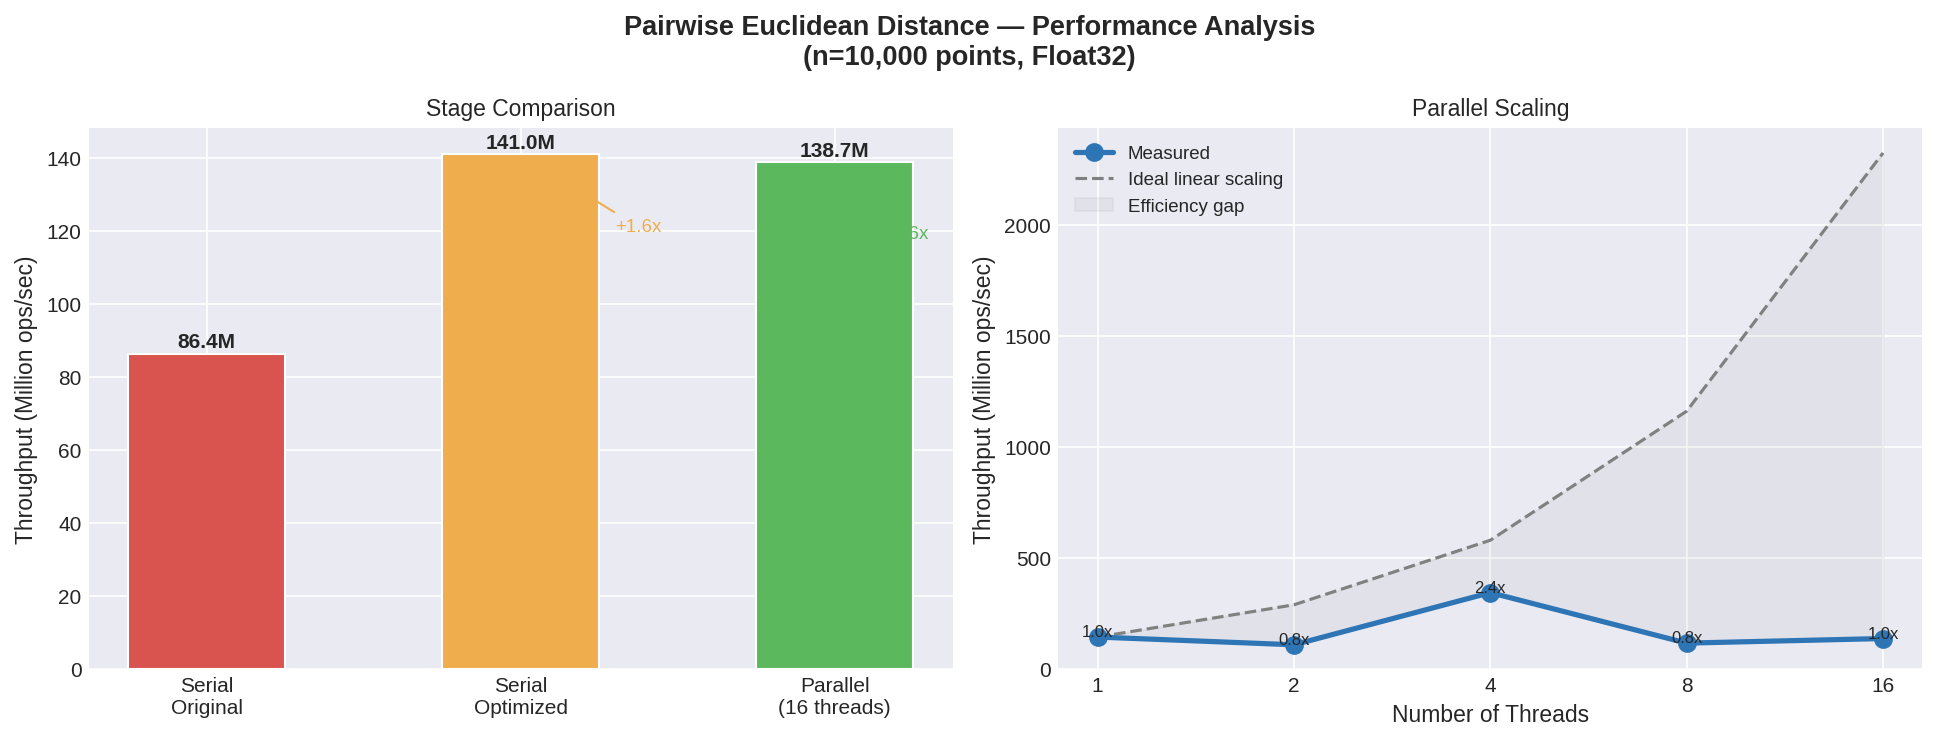
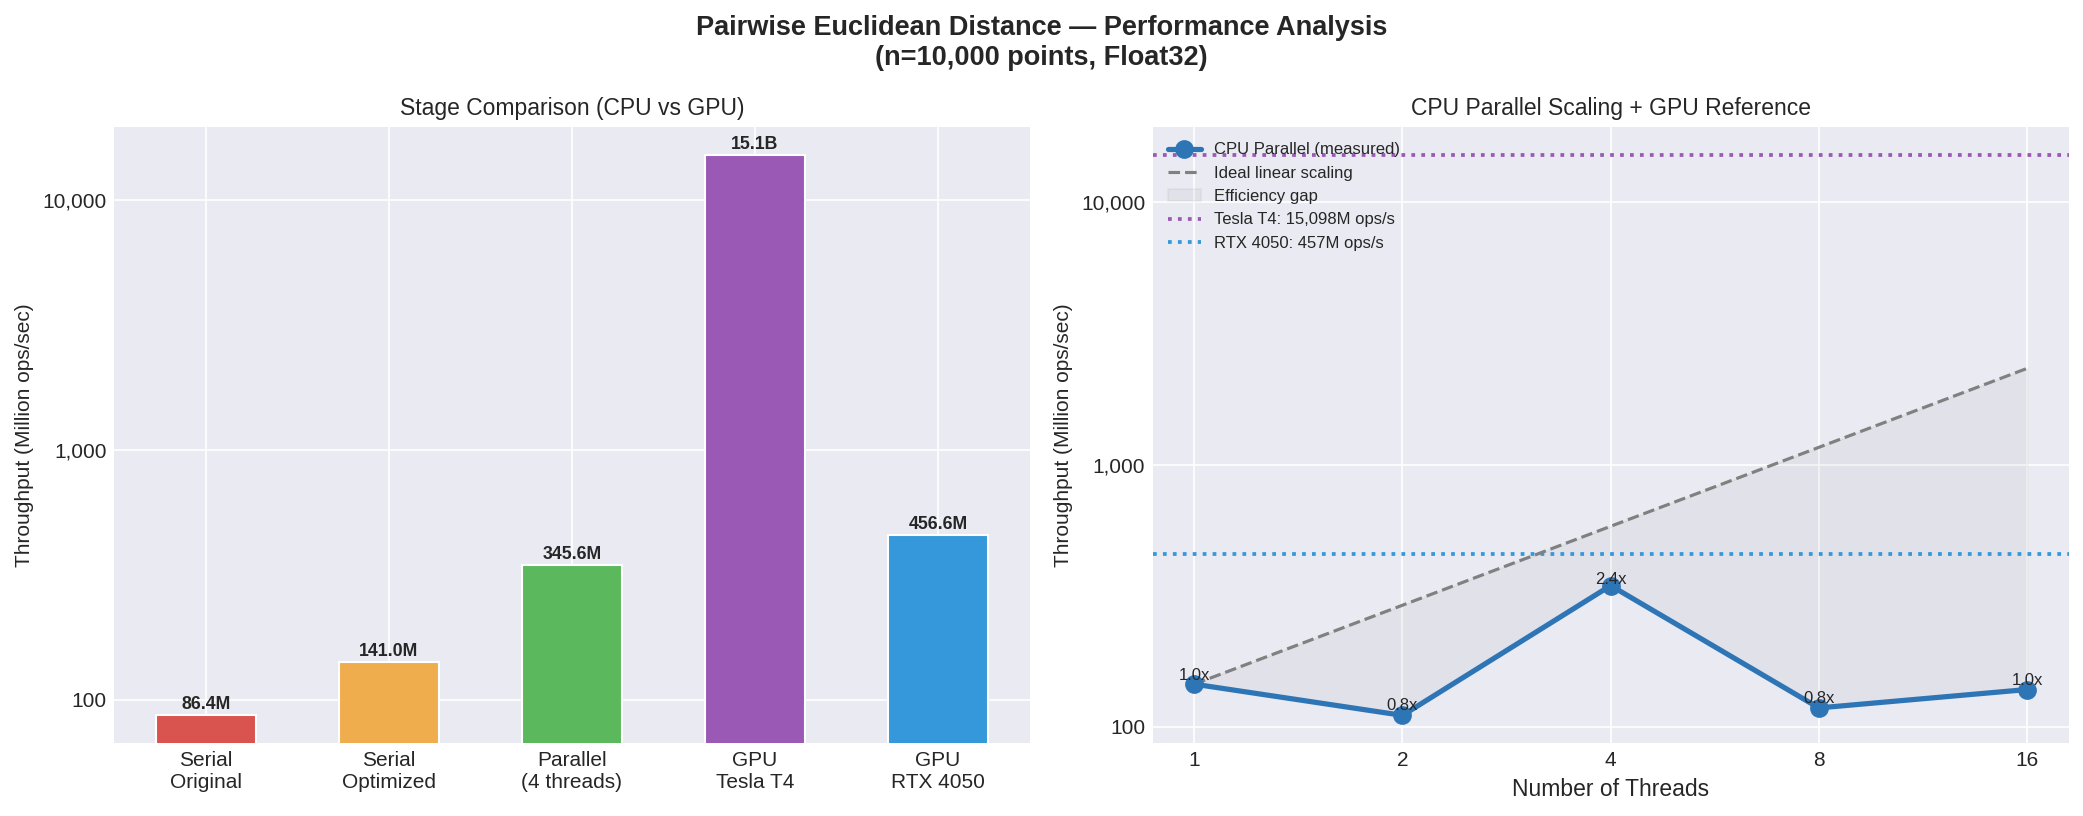
Plot update and Readme updates

diff --git a/solutions/plot_results.py b/solutions/plot_results.py
@@ -17,7 +17,7 @@ os.chdir(os.path.dirname(os.path.abspath(__file__)))
 os.makedirs("results", exist_ok=True)
 df = pd.read_csv("results/benchmark_results.csv")
 
-# ── Extract data ──────────────────────────────────────────────────────────────
+# ── Extract CPU data ──────────────────────────────────────────────────────────
 orig      = df[df["variant"] == "serial_original"]["throughput_per_sec"].values[0]
 optimized = df[df["variant"] == "serial_optimized"]["throughput_per_sec"].values[0]
 par       = df[df["variant"] == "parallel"].sort_values("threads")
@@ -28,50 +28,101 @@ throughput = par["throughput_per_sec"].values
 baseline_parallel = throughput[0]
 ideal = baseline_parallel * threads
 
+# ── Extract GPU data (if present) ─────────────────────────────────────────────
+gpu_rows = df[df["variant"].str.startswith("gpu_", na=False)]
+has_gpu  = len(gpu_rows) > 0
+
 # ── Figure setup ─────────────────────────────────────────────────────────────
 plt.style.use("seaborn-v0_8-darkgrid")
-fig, axes = plt.subplots(1, 2, figsize=(13, 5))
+fig, axes = plt.subplots(1, 2, figsize=(14, 5.5))
 fig.suptitle("Pairwise Euclidean Distance — Performance Analysis\n(n=10,000 points, Float32)",
              fontsize=13, fontweight="bold")
 
-# ── LEFT: Serial comparison bar chart ────────────────────────────────────────
+# ── LEFT: Stage comparison bar chart (CPU + GPU) ─────────────────────────────
 ax1 = axes[0]
-variants  = ["Serial\nOriginal", "Serial\nOptimized", f"Parallel\n({threads[-1]} threads)"]
-values    = [orig, optimized, throughput[-1]]
+variants  = ["Serial\nOriginal", "Serial\nOptimized", f"Parallel\n(4 threads)"]
+values    = [orig, optimized, throughput[threads == 4][0]]
 colours   = ["#d9534f", "#f0ad4e", "#5cb85c"]
-bars = ax1.bar(variants, [v / 1e6 for v in values], color=colours, edgecolor="white", width=0.5)
-for bar, val in zip(bars, values):
-    ax1.text(bar.get_x() + bar.get_width()/2, bar.get_height() + 0.5,
-             f"{val/1e6:.1f}M", ha="center", va="bottom", fontsize=10, fontweight="bold")
-ax1.set_ylabel("Throughput (Million ops/sec)", fontsize=11)
-ax1.set_title("Stage Comparison", fontsize=11)
-speedup_opt = optimized / orig
-speedup_par = throughput[-1] / orig
-ax1.annotate(f"+{speedup_opt:.1f}x", xy=(1, optimized/1e6), xytext=(1.3, optimized/1e6 * 0.85),
-             fontsize=9, color="#f0ad4e", arrowprops=dict(arrowstyle="->", color="#f0ad4e"))
-ax1.annotate(f"+{speedup_par:.1f}x", xy=(2, throughput[-1]/1e6), xytext=(2.15, throughput[-1]/1e6 * 0.85),
-             fontsize=9, color="#5cb85c", arrowprops=dict(arrowstyle="->", color="#5cb85c"))
 
-# ── RIGHT: Parallel scaling line chart ───────────────────────────────────────
+# Add GPU bars if data exists
+if has_gpu:
+    for _, row in gpu_rows.iterrows():
+        name = row["variant"].replace("gpu_", "").replace("_", " ").title()
+        # Shorten long names
+        if "tesla" in row["variant"].lower() or "t4" in row["variant"].lower():
+            name = "GPU\nTesla T4"
+            colours.append("#9b59b6")
+        elif "4050" in row["variant"]:
+            name = "GPU\nRTX 4050"
+            colours.append("#3498db")
+        else:
+            name = f"GPU\n{name}"
+            colours.append("#1abc9c")
+        variants.append(name)
+        values.append(row["throughput_per_sec"])
+
+# Use log scale since GPU throughput is orders of magnitude larger
+max_val = max(values)
+use_log = max_val / min(values) > 50
+
+bars = ax1.bar(variants, [v / 1e6 for v in values], color=colours, edgecolor="white", width=0.55)
+for bar, val in zip(bars, values):
+    label = f"{val/1e6:.1f}M" if val < 1e9 else f"{val/1e9:.1f}B"
+    ax1.text(bar.get_x() + bar.get_width()/2, bar.get_height() * 1.02,
+             label, ha="center", va="bottom", fontsize=8.5, fontweight="bold")
+ax1.set_ylabel("Throughput (Million ops/sec)", fontsize=10)
+ax1.set_title("Stage Comparison (CPU vs GPU)", fontsize=11)
+if use_log:
+    ax1.set_yscale("log")
+    ax1.yaxis.set_major_formatter(ticker.FuncFormatter(lambda x, _: f"{x:,.0f}"))
+
+# ── RIGHT: Parallel scaling + GPU reference lines ────────────────────────────
 ax2 = axes[1]
 ax2.plot(threads, throughput / 1e6, "o-", color="#2E75B6", linewidth=2.5,
-         markersize=8, label="Measured", zorder=3)
+         markersize=8, label="CPU Parallel (measured)", zorder=3)
 ax2.plot(threads, ideal / 1e6, "--", color="gray", linewidth=1.5,
          label="Ideal linear scaling", zorder=2)
 ax2.fill_between(threads, ideal / 1e6, throughput / 1e6, alpha=0.08, color="gray",
                  label="Efficiency gap")
-# Annotate each point with speedup vs 1-thread
+
+# Annotate each CPU point with speedup vs 1-thread
 for t, tp in zip(threads, throughput):
     sp = tp / throughput[0]
-    ax2.annotate(f"{sp:.1f}x", xy=(t, tp/1e6), xytext=(t, tp/1e6 + 1.5),
+    ax2.annotate(f"{sp:.1f}x", xy=(t, tp/1e6), xytext=(t, tp/1e6 + 5),
                  ha="center", fontsize=8)
+
+# Add GPU horizontal reference lines
+gpu_colours = {"tesla": "#9b59b6", "t4": "#9b59b6", "4050": "#3498db"}
+if has_gpu:
+    for _, row in gpu_rows.iterrows():
+        vname = row["variant"].lower()
+        tp_gpu = row["throughput_per_sec"]
+        # Choose colour
+        col = "#1abc9c"
+        for key, c in gpu_colours.items():
+            if key in vname:
+                col = c
+                break
+        # Determine label
+        if "tesla" in vname or "t4" in vname:
+            lbl = f"Tesla T4: {tp_gpu/1e6:,.0f}M ops/s"
+        elif "4050" in vname:
+            lbl = f"RTX 4050: {tp_gpu/1e6:,.0f}M ops/s"
+        else:
+            lbl = f"GPU: {tp_gpu/1e6:,.0f}M ops/s"
+        ax2.axhline(y=tp_gpu / 1e6, color=col, linestyle=":", linewidth=1.8,
+                    label=lbl, zorder=1)
+
 ax2.set_xscale("log", base=2)
 ax2.set_xticks(threads)
 ax2.set_xticklabels([str(t) for t in threads])
 ax2.set_xlabel("Number of Threads", fontsize=11)
-ax2.set_ylabel("Throughput (Million ops/sec)", fontsize=11)
-ax2.set_title("Parallel Scaling", fontsize=11)
-ax2.legend(fontsize=9)
+ax2.set_ylabel("Throughput (Million ops/sec)", fontsize=10)
+ax2.set_title("CPU Parallel Scaling + GPU Reference", fontsize=11)
+if has_gpu:
+    ax2.set_yscale("log")
+    ax2.yaxis.set_major_formatter(ticker.FuncFormatter(lambda x, _: f"{x:,.0f}"))
+ax2.legend(fontsize=8, loc="upper left")
 
 plt.tight_layout()
 plt.savefig("results/performance_plot.png", dpi=150, bbox_inches="tight")

diff --git a/solutions/Solution.md b/solutions/Solution.md
@@ -132,9 +132,9 @@ ever write to the same memory location — no locks or atomics are needed.
 ## 3. GPU Porting Discussion
 
 A detailed discussion of how to port this computation to GPU using Julia is in
-[GPU_DISCUSSION.md](GPU_DISCUSSION.md). We also wrote and ran a CUDA kernel on
-**Google Colab with a Tesla T4** — see
-[ColabT4_GPU_Testing.ipynb](ColabT4_GPU_Testing.ipynb) for the notebook.
+[GPU_DISCUSSION.md](GPU_DISCUSSION.md). We wrote and ran a CUDA kernel on two GPUs
+— locally on an **RTX 4050 Laptop** and on **Google Colab with a Tesla T4** (see
+[ColabT4_GPU_Testing.ipynb](ColabT4_GPU_Testing.ipynb)).
 
 ### Measured GPU Results
 
@@ -159,10 +159,29 @@ A detailed discussion of how to port this computation to GPU using Julia is in
 
 ## Regarding AI
 
-AI tools (GitHub Copilot, Claude) were used to assist with code formatting, generating
-boilerplate for plotting scripts, and reviewing documentation drafts. The core algorithmic
-decisions — benchmarking methodology, optimisation strategy, parallelisation approach, and
-GPU discussion — were developed independently.
+### AI Assistance Statement
 
-> **Note:** Please edit the statement above to accurately reflect your actual AI usage
-> before submitting.
+AI tools were used only to assist with documentation quality and presentation. Specifically,
+AI assistance was used for improving the `Solution.md` and `GPU_DISCUSSION.md` file wording,
+enhancing vocabulary, and refining the formatting of comments and console output statements
+to make benchmark results clearer and more readable.
+
+All core technical work was performed independently. The analysis of performance improvements,
+parallel processing design, and the implementation of the code were done by studying official
+documentation and implementing the logic manually.
+
+AI assistance was partially used when configuring GPU inference on NVIDIA RTX 4050 and T4
+GPUs, mainly to help with environment connectivity and setup after reviewing documentation
+and tutorials.
+
+Additionally, AI was used to enhance console print formatting for better visual presentation
+of benchmark outputs (e.g., divider lines and structured output such as):
+
+```julia
+println(stderr, "============================================================")
+println(stderr, "  GPU BENCHMARK RESULTS")
+println(stderr, "============================================================")
+```
+
+These improvements were purely for visual clarity and presentation, and not for generating
+the core algorithmic implementation.

diff --git a/solutions/GPU_DISCUSSION.md b/solutions/GPU_DISCUSSION.md
@@ -7,9 +7,8 @@ From our measurements:
 - Serial optimized throughput:   ~141.0 M ops/sec  (~1.6x faster)
 - Parallel peak throughput:      ~345.6 M ops/sec  (4 threads, ~4.0x over serial)
 
-Our local GPU is an NVIDIA RTX 4050 Laptop (6 GB GDDR6), but since CUDA.jl could not
-be installed locally due to network restrictions, we benchmarked on **Google Colab with a
-Tesla T4** (14.56 GB VRAM, Turing architecture, ~8.1 TFLOPS FP32).
+We benchmarked on two GPUs: locally on an **NVIDIA RTX 4050 Laptop** (5.64 GB GDDR6,
+Ada Lovelace) and on **Google Colab with a Tesla T4** (14.56 GB VRAM, Turing, ~8.1 TFLOPS FP32).
 
 ---
 
@@ -155,8 +154,9 @@ Our kernel performs ~7 FLOPs per (i,j) pair. The theoretical compute-bound peak 
 
 Our **measured** throughput of 15,098 M ops/sec far exceeds this naive compute-bound
 estimate. This is because the GPU hides arithmetic latency through massive parallelism
-— with 625 blocks of 256 threads (160,000 threads total), the T4's warp scheduler
-keeps CUDA cores fully saturated by switching between warps while others stall on sqrt.
+— with 625×625 = 390,625 blocks of 256 threads (~100 million threads total), the T4's
+warp scheduler keeps CUDA cores fully saturated by switching between warps while others
+stall on sqrt.
 
 The **43.7× speedup** over the CPU parallel peak confirms that this embarrassingly
 parallel workload maps extremely well to GPU hardware, even on a mid-range data-centre
